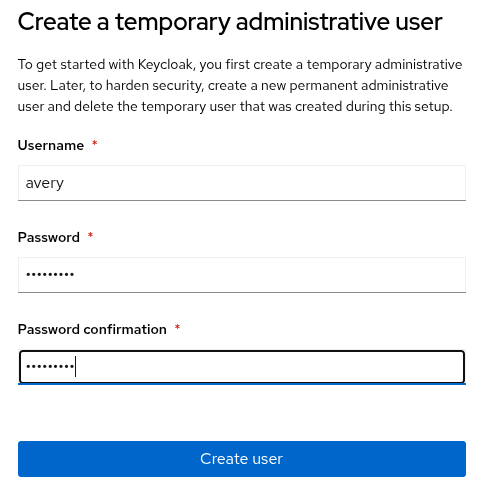
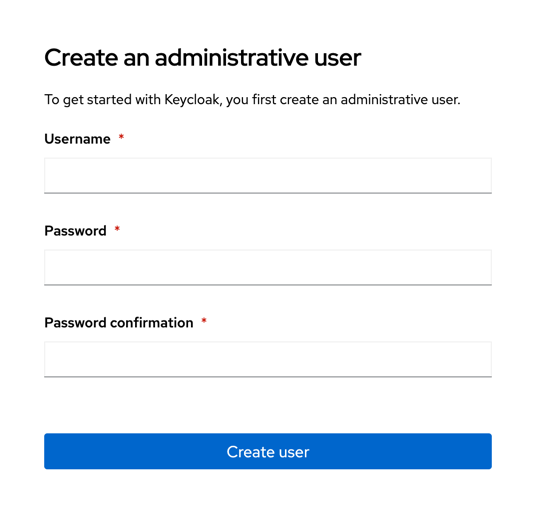
WelcomeResource do not create temporary admins (#41416)

diff --git a/services/src/main/java/org/keycloak/services/managers/ApplianceBootstrap.java b/services/src/main/java/org/keycloak/services/managers/ApplianceBootstrap.java
@@ -121,7 +121,7 @@ public class ApplianceBootstrap {
      * @param initialUser if true only create the user if no other users exist
      * @return false if the user could not be created
      */
-    public boolean createTemporaryMasterRealmAdminUser(String username, String password, /*Integer expriationMinutes,*/ boolean initialUser) {
+    public boolean createMasterRealmAdminUser(String username, String password, boolean isTemporary, /*Integer expriationMinutes,*/ boolean initialUser) {
         RealmModel realm = session.realms().getRealmByName(Config.getAdminRealm());
         session.getContext().setRealm(realm);
 
@@ -136,8 +136,10 @@ public class ApplianceBootstrap {
         try {
             UserModel adminUser = session.users().addUser(realm, username);
             adminUser.setEnabled(true);
-            adminUser.setSingleAttribute(IS_TEMP_ADMIN_ATTR_NAME, Boolean.TRUE.toString());
-            // also set the expiration - could be relative to a creation timestamp, or computed
+            if (isTemporary) {
+                adminUser.setSingleAttribute(IS_TEMP_ADMIN_ATTR_NAME, Boolean.TRUE.toString());
+                // also set the expiration - could be relative to a creation timestamp, or computed
+            }
 
             UserCredentialModel usrCredModel = UserCredentialModel.password(password);
             adminUser.credentialManager().updateCredential(usrCredModel);
@@ -145,7 +147,10 @@ public class ApplianceBootstrap {
             RoleModel adminRole = realm.getRole(AdminRoles.ADMIN);
             adminUser.grantRole(adminRole);
 
-            ServicesLogger.LOGGER.createdTemporaryAdminUser(username);
+            if (isTemporary)
+                ServicesLogger.LOGGER.createdTemporaryAdminUser(username);
+            else
+                ServicesLogger.LOGGER.createdInitialAdminUser(username);
         } catch (ModelDuplicateException e) {
             ServicesLogger.LOGGER.addUserFailedUserExists(username, Config.getAdminRealm());
             return false;
@@ -155,7 +160,7 @@ public class ApplianceBootstrap {
 
     /**
      * Create a temporary admin service account
-     * @param clientId the client ID
+     * @param clientId     the client ID
      * @param clientSecret the client secret
      * @return false if the service account could not be created
      */
@@ -194,8 +199,8 @@ public class ApplianceBootstrap {
         return true;
     }
 
-    public void createMasterRealmUser(String username, String password) {
-        createTemporaryMasterRealmAdminUser(username, password, true);
+    public void createMasterRealmUser(String username, String password, boolean isTemporary) {
+        createMasterRealmAdminUser(username, password, isTemporary, true);
     }
 
 }

diff --git a/services/src/main/java/org/keycloak/services/resources/WelcomeResource.java b/services/src/main/java/org/keycloak/services/resources/WelcomeResource.java
@@ -39,6 +39,8 @@ import org.keycloak.common.Version;
 import org.keycloak.common.util.Base64Url;
 import org.keycloak.common.util.MimeTypeUtil;
 import org.keycloak.common.util.SecretGenerator;
+import org.keycloak.common.util.SystemEnvProperties;
+import org.keycloak.config.BootstrapAdminOptions;
 import org.keycloak.cookie.CookieProvider;
 import org.keycloak.cookie.CookieType;
 import org.keycloak.http.HttpRequest;
@@ -133,9 +135,10 @@ public class WelcomeResource {
                 return createWelcomePage(null, "Password and confirmation doesn't match");
             }
 
+
             try {
                 ApplianceBootstrap applianceBootstrap = new ApplianceBootstrap(session);
-                applianceBootstrap.createMasterRealmUser(username, password);
+                applianceBootstrap.createMasterRealmUser(username, password, false);
             } catch (ModelException e) {
                 session.getTransactionManager().rollback();
                 logger.error("Error creating the administrative user", e);
@@ -145,7 +148,6 @@ public class WelcomeResource {
             expireCsrfCookie();
 
             shouldBootstrap.set(false);
-            ServicesLogger.LOGGER.createdTemporaryAdminUser(username);
             return createWelcomePage("User created", null);
         }
     }
@@ -301,5 +303,4 @@ public class WelcomeResource {
             throw new ForbiddenException();
         }
     }
-
 }

diff --git a/tests/base/src/test/java/org/keycloak/tests/welcomepage/WelcomePageTest.java b/tests/base/src/test/java/org/keycloak/tests/welcomepage/WelcomePageTest.java
@@ -53,8 +53,8 @@ public class WelcomePageTest {
 
         welcomePage.navigateTo();
 
-        Assertions.assertEquals("Create a temporary administrative user", welcomePage.getWelcomeMessage());
-        Assertions.assertTrue(welcomePage.getWelcomeDescription().startsWith("To get started with Keycloak, you first create a temporary administrative user"));
+        Assertions.assertEquals("Create an administrative user", welcomePage.getWelcomeMessage());
+        Assertions.assertTrue(welcomePage.getWelcomeDescription().startsWith("To get started with Keycloak, you first create an administrative user"));
         Assertions.assertTrue(driver.getPageSource().contains("form"));
     }
 
@@ -64,7 +64,7 @@ public class WelcomePageTest {
         driver.get(getPublicServerUrl().toString());
 
         Assertions.assertEquals("Local access required", welcomePage.getWelcomeMessage());
-        Assertions.assertTrue(welcomePage.getWelcomeDescription().startsWith("You will need local access to create the temporary administrative user."));
+        Assertions.assertTrue(welcomePage.getWelcomeDescription().startsWith("You will need local access to create the administrative user."));
         Assertions.assertFalse(driver.getPageSource().contains("form"));
     }
 

diff --git a/testsuite/integration-arquillian/tests/base/src/main/java/org/keycloak/testsuite/auth/page/WelcomePage.java b/testsuite/integration-arquillian/tests/base/src/main/java/org/keycloak/testsuite/auth/page/WelcomePage.java
@@ -46,9 +46,8 @@ public class WelcomePage extends AuthServer {
     private WebElement welcomeMessage;
 
     public boolean isPasswordSet() {
-        return !(driver.getPageSource().contains("Create a temporary administrative user") ||
-                driver.getPageSource().contains("You will need local access to create the temporary administrative user.") ||
-                driver.getPageSource().contains("you first create a temporary administrative user. Later, to harden security, create a new permanent administrative user"));
+        return !(driver.getPageSource().contains("Create an administrative user") ||
+                driver.getPageSource().contains("You will need local access to create the administrative user."));
     }
 
     public void setPassword(String username, String password) {

diff --git a/quarkus/runtime/src/main/java/org/keycloak/quarkus/runtime/integration/jaxrs/QuarkusKeycloakApplication.java b/quarkus/runtime/src/main/java/org/keycloak/quarkus/runtime/integration/jaxrs/QuarkusKeycloakApplication.java
@@ -103,7 +103,7 @@ public class QuarkusKeycloakApplication extends KeycloakApplication {
     }
 
     public boolean createTemporaryMasterRealmAdminUser(String adminUserName, String adminPassword, /*Integer adminExpiration,*/ KeycloakSession session) {
-        return new ApplianceBootstrap(session).createTemporaryMasterRealmAdminUser(adminUserName, adminPassword /*, adminExpiration*/, false);
+        return new ApplianceBootstrap(session).createMasterRealmAdminUser(adminUserName, adminPassword, true /*, adminExpiration*/, false);
     }
 
     public boolean createTemporaryMasterRealmAdminService(String clientId, String clientSecret, /*Integer adminExpiration,*/ KeycloakSession session) {

diff --git a/testsuite/utils/src/main/java/org/keycloak/testsuite/KeycloakServer.java b/testsuite/utils/src/main/java/org/keycloak/testsuite/KeycloakServer.java
@@ -397,7 +397,7 @@ public class KeycloakServer {
             try (KeycloakSession session = sessionFactory.create()) {
                 session.getTransactionManager().begin();
                 if (new ApplianceBootstrap(session).isNoMasterUser()) {
-                    new ApplianceBootstrap(session).createMasterRealmUser("admin", "admin");
+                    new ApplianceBootstrap(session).createMasterRealmUser("admin", "admin", true);
                     log.info("Created master user with credentials admin:admin");
                 }
             }

diff --git a/testsuite/integration-arquillian/servers/auth-server/undertow/src/main/java/org/keycloak/testsuite/arquillian/undertow/KeycloakOnUndertow.java b/testsuite/integration-arquillian/servers/auth-server/undertow/src/main/java/org/keycloak/testsuite/arquillian/undertow/KeycloakOnUndertow.java
@@ -226,7 +226,7 @@ public class KeycloakOnUndertow implements DeployableContainer<KeycloakOnUnderto
         try (KeycloakSession session = sessionFactory.create()) {
             session.getTransactionManager().begin();
             if (new ApplianceBootstrap(session).isNoMasterUser()) {
-                new ApplianceBootstrap(session).createMasterRealmUser("admin", "admin");
+                new ApplianceBootstrap(session).createMasterRealmUser("admin", "admin", true);
             }
         }
     }

diff --git a/services/src/main/java/org/keycloak/services/ServicesLogger.java b/services/src/main/java/org/keycloak/services/ServicesLogger.java
@@ -469,4 +469,8 @@ public interface ServicesLogger extends BasicLogger {
     @Message(id=110, value="Environment variable '%s' is deprecated, use '%s' instead")
     void usingDeprecatedEnvironmentVariable(String deprecated, String supported);
 
+    @LogMessage(level = INFO)
+    @Message(id=111, value="Created initial admin user with username %s")
+    void createdInitialAdminUser(String userName);
+
 }
